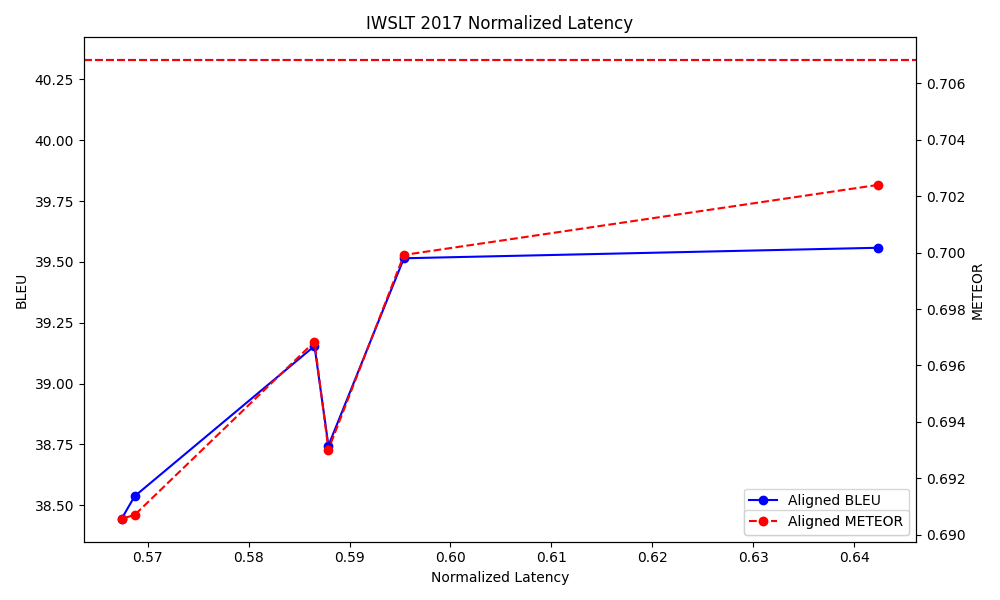
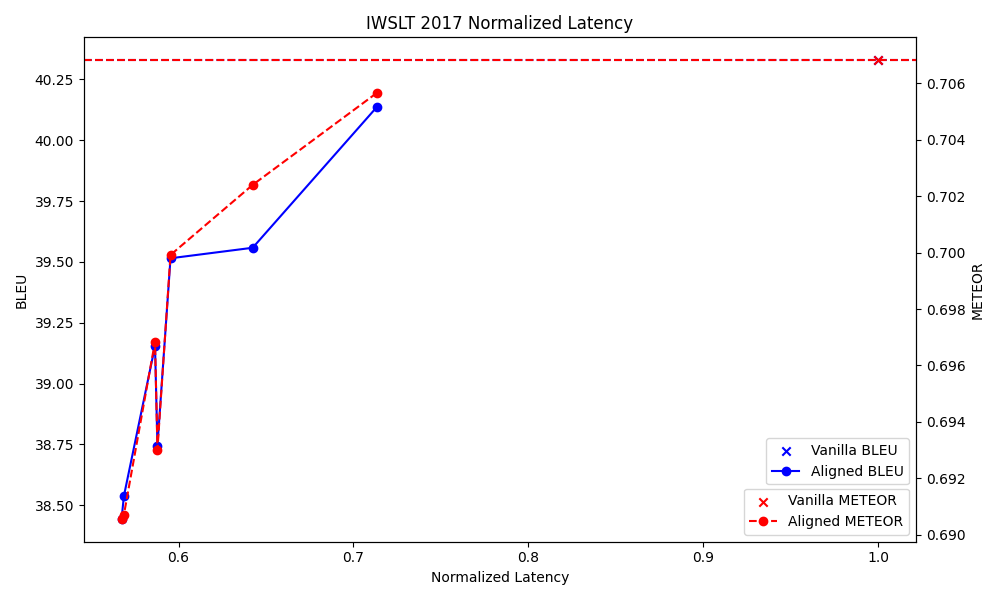
Add metrics experiment

diff --git a/src/visualizations/show_metric.py b/src/visualizations/show_metric.py
@@ -104,6 +104,7 @@ def show_performance(experiment, hardware="tesla-t4", speedup=True, best=None):
 
     ax1.set_ylabel(metric_labels[0])
     ax1.axhline(y=vanilla_data[metric_keys[0]], color='blue', linestyle='--')
+    pt1 = ax1.scatter(1, vanilla_data[metric_keys[0]], color='blue', label=f"Vanilla {metric_labels[0]}", marker='x')
 
     lns1 = ax1.plot(
         [measure_func(vanilla_data[SPEED_METRIC], data[SPEED_METRIC]) for data in aligned_data],
@@ -121,6 +122,7 @@ def show_performance(experiment, hardware="tesla-t4", speedup=True, best=None):
     ax2 = ax1.twinx()
     ax2.set_ylabel(metric_labels[1])
     ax2.axhline(y=vanilla_data[metric_keys[1]], color='red', linestyle='--')
+    pt2 = ax2.scatter(1, vanilla_data[metric_keys[1]], color='red', label=f"Vanilla {metric_labels[1]}", marker='x')
 
     lns2 = ax2.plot(
         [measure_func(vanilla_data[SPEED_METRIC], data[SPEED_METRIC]) for data in aligned_data],
@@ -134,10 +136,8 @@ def show_performance(experiment, hardware="tesla-t4", speedup=True, best=None):
     #     label=f"Unaligned {metric_labels[1]}", marker='s', linestyle="--", color='red'
     # )
 
-    # Combine handles and labels from both axes
-    lns = lns1 + lns2
-    labs = [l.get_label() for l in lns]
-    ax1.legend(lns, labs, loc='lower right')
+    ax1.legend(loc='lower right', bbox_to_anchor=(1, 0.1))
+    ax2.legend(loc='lower right')
 
     plt.tight_layout()
     plt.legend()

diff --git a/src/visualizations/show_performance.py b/src/visualizations/show_performance.py
@@ -125,13 +125,13 @@ def show_performance(experiment, hardware="tesla-t4", speedup=True, best=None):
             plt.annotate(f"({data['fb_threshold']}, {int(data['rb_threshold'])})", (measure_func(vanilla_data[SPEED_METRIC], data[SPEED_METRIC]), data[metric_key]))
 
     plt.legend()
-    # plt.savefig(RESULTS_DIR + f"{experiment}_{hardware}_{'speedup' if speedup else 'latency'}_{'best_' + best if best else 'all'}.png")
-    plt.savefig(f"{experiment}_{hardware}_{'speedup' if speedup else 'latency'}_{'best_' + best if best else 'all'}.png")
+    plt.tight_layout()
+    plt.savefig(f"{experiment}_{hardware}_{'speedup' if speedup else 'latency'}_{'best_' + best if best else 'all'}.pdf", format="pdf")
 
 if __name__ == "__main__":
     parser = argparse.ArgumentParser()
     parser.add_argument("--experiment", type=str, default="iwslt2017", choices=["iwslt2017", "wmt14", "xsum", "cnn_dailymail"], help="Experiment to run.")
-    parser.add_argument("--hardware", type=str, default="tesla-t4", choices=["tesla-t4", "wmt14", "xsum", "cnn_dailymail"], help="Experiment to run.")
+    parser.add_argument("--hardware", type=str, default="tesla-t4", choices=["tesla-t4", "rtx-2080"], help="Hardware used.")
 
     args = parser.parse_args()
 
